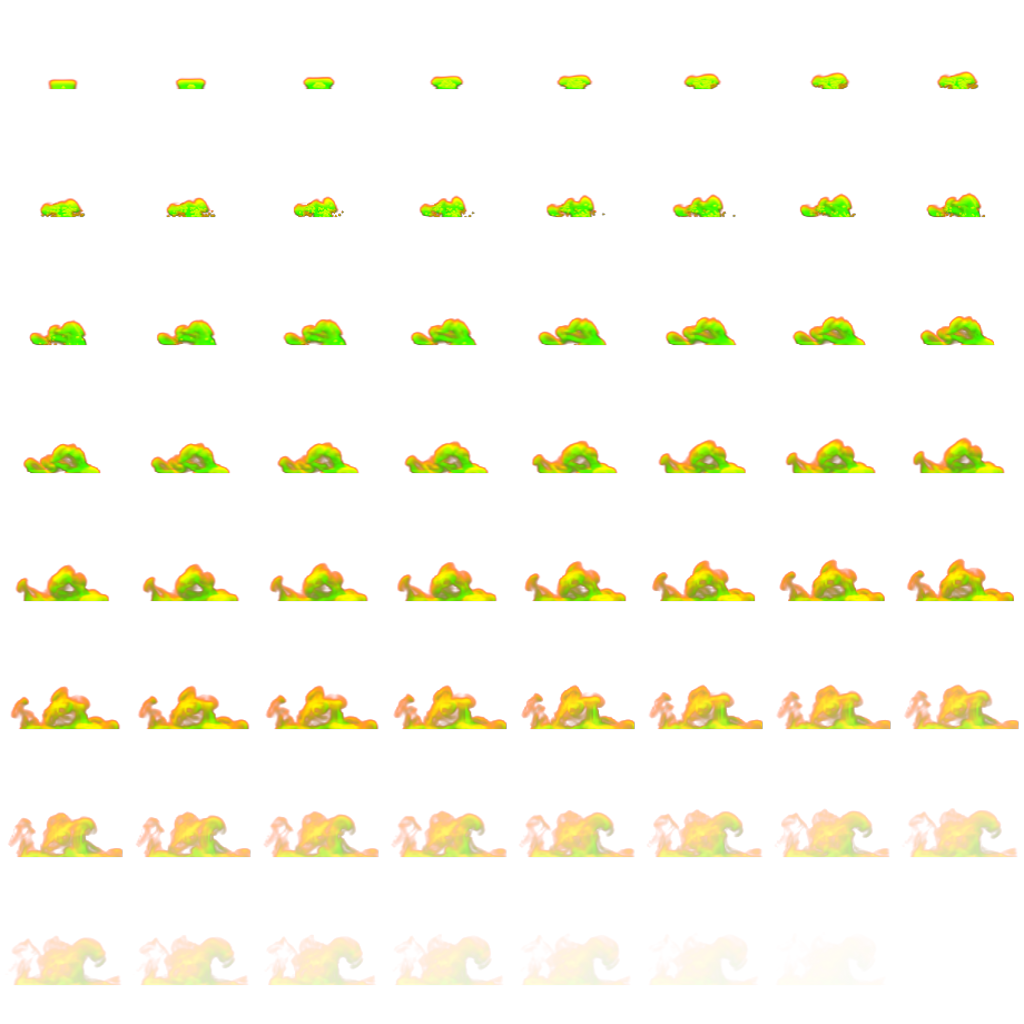
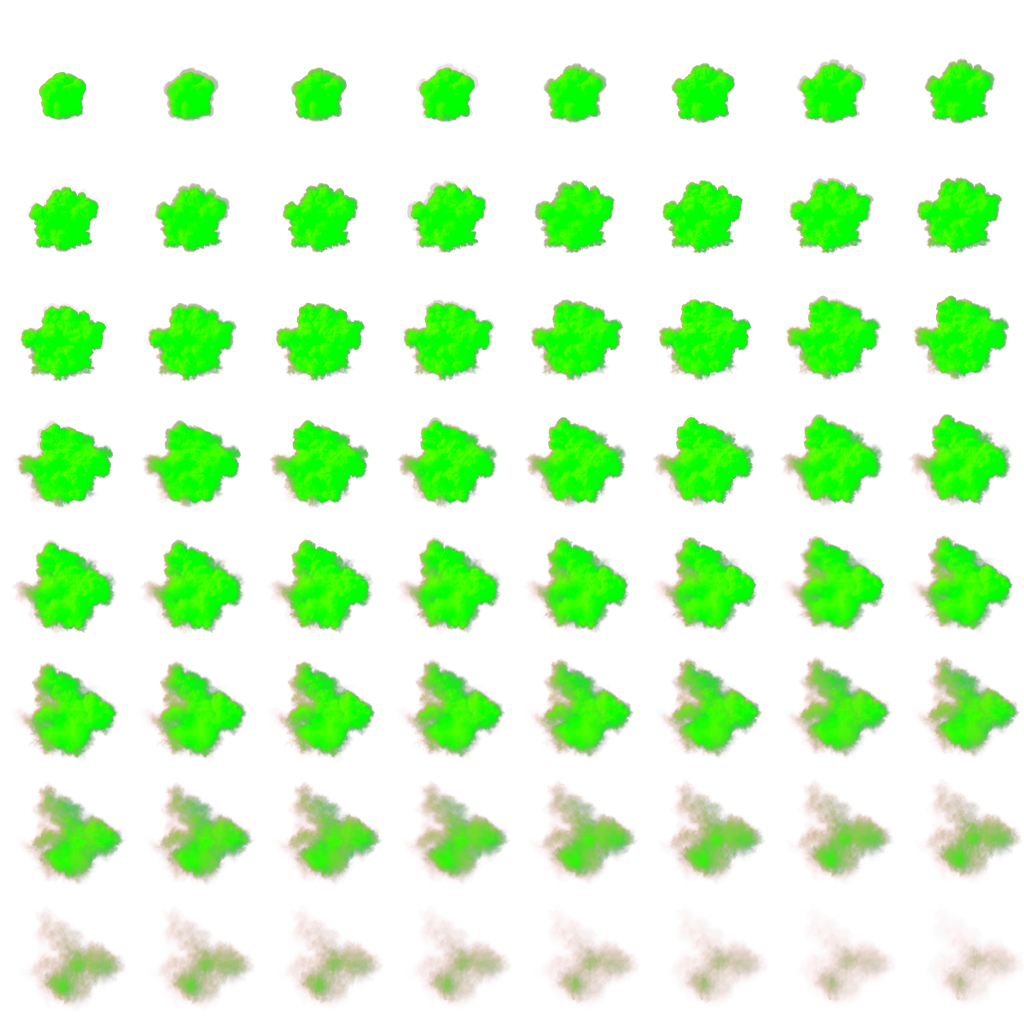
Real fire / smoke / explosion flipbooks (CC0 sims), Niagara loop budget, big burning fields
- fetch_cc0_flipbooks.py: Unity Labs' 2016 CC0 VFX sequences (flames, fireballs, explosions, wispy smoke);
  cc0_flipbooks_to_house.py remaps them to the house format (light / thickness / temperature / alpha, 8x8, 64 frames,
  2048 px for fire + explosion) and replaces the numpy-solver atlases; flipbooks.json records the sources.
- FX: grand fire fields burn with Niagara fire only (no procedural domes), persistent Niagara capped at 28 (Mac) /
  12 (mobile) loops, grand walls first then nearest.

diff --git a/unreal/Tools/vfx/cc0_flipbooks_to_house.py b/unreal/Tools/vfx/cc0_flipbooks_to_house.py
@@ -1,0 +1,94 @@
+#!/usr/bin/env python3
+"""Turns the CC0 Unity Labs sims (fetch_cc0_flipbooks.py) into the house flipbook format the FX materials read
+(flipbooks.json: "R light, G thickness, B temperature, A alpha", 8 x 8 frames) and replaces the numpy-solver atlases:
+
+  fire_loop  <- Flame02         fire_burst <- FireBall01      explosion <- Explosion01
+  smoke_puff <- WispySmoke02    steam_puff <- WispySmoke03    dust_puff <- Explosion01-nofire
+  sand_burst <- Explosion01-nofire (warmer grade in the material)    water_splash / puff_atlas: unchanged
+
+Frames are resampled in time to 64 (linear blend between neighbours). Channels from the straight-alpha colour:
+  A = alpha, G = alpha (thickness), R = luminance / max-lum (lighting), B = black-body temperature estimate.
+  python3 unreal/Tools/vfx/cc0_flipbooks_to_house.py [--tile 256]
+"""
+import argparse
+import json
+import os
+import sys
+
+import numpy as np
+from PIL import Image
+
+HERE = os.path.dirname(os.path.abspath(__file__))
+FB = os.path.normpath(os.path.join(HERE, "..", "..", "SourceArt", "VFX", "Flipbooks"))
+SRC = os.path.join(FB, "CC0")
+MAP = {
+    "fire_loop": ("Flame02", 256),
+    "fire_burst": ("FireBall01", 256),
+    "explosion": ("Explosion01", 256),
+    "smoke_puff": ("WispySmoke02", 128),
+    "steam_puff": ("WispySmoke03", 128),
+    "dust_puff": ("Explosion01-nofire", 128),
+    "sand_burst": ("Explosion01-nofire", 128),
+}
+
+
+def frames_of(path, cols, rows):
+    im = np.asarray(Image.open(path).convert("RGBA"), dtype=np.float32) / 255.0
+    h, w = im.shape[:2]
+    th, tw = h // rows, w // cols
+    return [im[r * th:(r + 1) * th, c * tw:(c + 1) * tw] for r in range(rows) for c in range(cols)]
+
+
+def resample(frames, n):
+    out = []
+    m = len(frames)
+    for i in range(n):
+        t = i * (m - 1) / max(n - 1, 1)
+        a = int(np.floor(t))
+        b = min(a + 1, m - 1)
+        k = t - a
+        out.append(frames[a] * (1 - k) + frames[b] * k)
+    return out
+
+
+def to_house(f, tile):
+    img = Image.fromarray((np.clip(f, 0, 1) * 255).astype(np.uint8), "RGBA").resize((tile, tile), Image.LANCZOS)
+    f = np.asarray(img, dtype=np.float32) / 255.0
+    rgb, a = f[..., :3], f[..., 3]
+    lum = rgb @ np.array([0.2126, 0.7152, 0.0722], dtype=np.float32)
+    # temperature: hot = bright and red-over-blue (flame / fireball cores); grey smoke stays cold
+    warm = np.clip((rgb[..., 0] - rgb[..., 2]) * 1.6, 0, 1)
+    temp = np.clip(warm * np.clip(lum * 1.4, 0, 1) + np.clip((lum - 0.75) * 2.0, 0, 1) * 0.6, 0, 1)
+    return np.stack([lum, a, temp, a], axis=-1)
+
+
+def main():
+    ap = argparse.ArgumentParser()
+    ap.add_argument("--tile", type=int, default=0, help="override tile px for every flipbook")
+    a = ap.parse_args()
+    man = json.load(open(os.path.join(SRC, "cc0_flipbooks.json")))
+    meta = json.load(open(os.path.join(FB, "flipbooks.json")))
+    for key, (name, tile) in MAP.items():
+        s = man["sets"].get(name)
+        if not s:
+            print(f"{key}: {name} missing (run fetch_cc0_flipbooks.py)")
+            continue
+        tile = a.tile or tile
+        frames = resample(frames_of(os.path.join(SRC, s["file"]), s["cols"], s["rows"]), 64)
+        atlas = np.zeros((tile * 8, tile * 8, 4), dtype=np.float32)
+        for i, f in enumerate(frames):
+            r, c = divmod(i, 8)
+            atlas[r * tile:(r + 1) * tile, c * tile:(c + 1) * tile] = to_house(f, tile)
+        dst = os.path.join(FB, f"T_FX_FB_{key}.png")
+        Image.fromarray((np.clip(atlas, 0, 1) * 255 + 0.5).astype(np.uint8), "RGBA").save(dst, optimize=True)
+        e = meta["flipbooks"][key]
+        e.update({"frames": 64, "grid": 8, "tile": tile, "source": f"CC0 Unity Labs VFX sequences: {name}",
+                  "generator": "unreal/Tools/vfx/cc0_flipbooks_to_house.py"})
+        print(f"{key:12s} <- {name:20s} {tile * 8}px")
+    meta["license_notes"] = "fire / smoke / explosion atlases: CC0 1.0 (Unity Labs 2016 VFX image sequences); others: generated"
+    json.dump(meta, open(os.path.join(FB, "flipbooks.json"), "w"), indent=2)
+    return 0
+
+
+if __name__ == "__main__":
+    sys.exit(main())

diff --git a/unreal/Tools/vfx/fetch_cc0_flipbooks.py b/unreal/Tools/vfx/fetch_cc0_flipbooks.py
@@ -1,0 +1,62 @@
+#!/usr/bin/env python3
+"""Downloads Unity Labs' 2016 VFX image sequences / flipbooks (CC0, creativecommons.org/publicdomain/zero/1.0/;
+https://unity.com/blog/engine-platform/free-vfx-image-sequences-flipbooks) - offline fluid sims of flames, fireballs,
+explosions and smoke - and converts the TGA flipbook atlases to PNG for the Unreal import:
+  unreal/SourceArt/VFX/Flipbooks/CC0/<Name>_<cols>x<rows>.png   (git-ignored) + cc0_flipbooks.json (grid, source, license)
+
+  python3 unreal/Tools/vfx/fetch_cc0_flipbooks.py [--only Flame02,Explosion01]
+"""
+import argparse
+import io
+import json
+import os
+import re
+import shutil
+import sys
+import urllib.request
+import zipfile
+
+HERE = os.path.dirname(os.path.abspath(__file__))
+OUT = os.path.normpath(os.path.join(HERE, "..", "..", "SourceArt", "VFX", "Flipbooks", "CC0"))
+BASE = "https://unity3d.com/files/labs/downloads/vfx/assets01"
+SETS = ["Flame02", "Flame03", "FireBall01", "FireBall02", "FireBall03", "Explosion00", "Explosion01", "Explosion02",
+        "Explosion01-nofire", "WispySmoke01", "WispySmoke02", "WispySmoke03", "DiscSmoke01", "Cloud01", "Cloud02"]
+UA = {"User-Agent": "Fourfold-asset-fetch/1.0"}
+
+
+def main():
+    ap = argparse.ArgumentParser()
+    ap.add_argument("--only", default="")
+    a = ap.parse_args()
+    only = {s for s in a.only.split(",") if s}
+    os.makedirs(OUT, exist_ok=True)
+    from PIL import Image
+    man_path = os.path.join(OUT, "cc0_flipbooks.json")
+    man = json.load(open(man_path)) if os.path.exists(man_path) else {
+        "license": "CC0 1.0 (Unity Labs VFX image sequences, 2016)", "source": "https://unity.com/blog/engine-platform/free-vfx-image-sequences-flipbooks",
+        "sets": {}}
+    for name in SETS:
+        if only and name not in only:
+            continue
+        url = f"{BASE}/{name}/{name}-flipbooks.zip"
+        with urllib.request.urlopen(urllib.request.Request(url, headers=UA), timeout=600) as r:
+            data = r.read()
+        z = zipfile.ZipFile(io.BytesIO(data))
+        tgas = [n for n in z.namelist() if n.lower().endswith(".tga")]
+        if not tgas:
+            print(f"{name}: no TGA in the zip ({z.namelist()})")
+            continue
+        src = tgas[0]
+        m = re.search(r"_(\d+)x(\d+)\.tga$", src, re.I)
+        cols, rows = (int(m.group(1)), int(m.group(2))) if m else (8, 8)
+        img = Image.open(io.BytesIO(z.read(src))).convert("RGBA")
+        dst = os.path.join(OUT, f"T_FX_CC0_{name.replace('-', '_')}.png")
+        img.save(dst, optimize=True)
+        man["sets"][name] = {"file": os.path.basename(dst), "cols": cols, "rows": rows, "size": list(img.size), "zip": url}
+        print(f"{name:20s} {cols}x{rows} {img.size} -> {os.path.basename(dst)}")
+    json.dump(man, open(man_path, "w"), indent=1)
+    return 0
+
+
+if __name__ == "__main__":
+    sys.exit(main())

diff --git a/unreal/Source/FourfoldFX/Private/Logic/FxDirector.cpp b/unreal/Source/FourfoldFX/Private/Logic/FxDirector.cpp
@@ -97,6 +97,20 @@ const DrawList& FxDirector::Update(const FxFrameIn& in) {
 	world_.Update(c);
 	fx_.Step(c);
 	SelectLights(out_.lights, MinI(c.q.maxLights, 4), in.cam.pos);
+	// Persistent Niagara budget (each NS_Fire ~0.3-0.5 ms on the Mac): keep the loops nearest the camera.
+	{
+		const size_t cap = in.quality >= 2 ? 28u : 12u;
+		if (out_.loops.size() > cap) {
+			const Vec3 cam = in.cam.pos;
+			// grand-technique walls (keys 0xB1......) first, then nearest
+			std::stable_sort(out_.loops.begin(), out_.loops.end(), [&cam](const LoopReq& x, const LoopReq& y) {
+				const bool gx = (x.key & 0xFF000000u) == 0xB1000000u, gy = (y.key & 0xFF000000u) == 0xB1000000u;
+				if (gx != gy) return gx;
+				return (x.pos - cam).length_squared() < (y.pos - cam).length_squared();
+			});
+			out_.loops.resize(cap);
+		}
+	}
 	stats_.items = static_cast<int>(out_.items.size());
 	stats_.lights = static_cast<int>(out_.lights.size());
 	stats_.fractures = static_cast<int>(out_.fractures.size());
@@ -210,11 +224,10 @@ void FxDirector::UpdateGrand(Ctx& c) {
 	const Color smoke(0.34f, 0.31f, 0.29f);
 	for (const ff::BodyView& b : cur.bodies) {
 		const bool wall = b.form == ff::Form::Wave && b.props["grand"].as_bool(false);
-		const bool field = b.form == ff::Form::Zone && b.tag == "fire_field" && b.zone_radius >= 2.3f;
-		if (!wall && !field) continue;
+		if (!wall) continue;
 		const uint32_t key0 = 0xB1000000u + static_cast<uint32_t>(b.id) * 8u;
-		if (wall) {
-			// three roaring columns across the advancing wall + a smoke pall above it
+		{
+			// roaring columns across the advancing wall + a smoke pall above it
 			Vec3 fwd = b.wave_dir;
 			fwd.y = 0.0f;
 			fwd = fwd.length_squared() > 1e-6f ? Norm(fwd) : Vec3(0.0f, 0.0f, 1.0f);
@@ -234,13 +247,8 @@ void FxDirector::UpdateGrand(Ctx& c) {
 				s.intensity = 1.0f;
 				s.color = smoke;
 			}
-		} else {
-			LoopReq& l = c.out.Loop(key0, LCue::Fire, b.pos);
-			l.scale = 1.0f * b.zone_radius;
-			l.intensity = 1.3f;
-			l.color = c.cfg.flame[1];
-			l.color2 = smoke;
 		}
+		// big fields: the field view itself places its Niagara sites (FxViews), nothing extra here
 	}
 }
 

diff --git a/unreal/Source/FourfoldFX/Private/Logic/FxViews.cpp b/unreal/Source/FourfoldFX/Private/Logic/FxViews.cpp
@@ -981,16 +981,18 @@ public:
 			const int n = Sites(sites);
 			for (int k = 0; k < n; ++k) {
 				LoopReq& l = c.out.Loop(loopKeys_[static_cast<size_t>(k)], cue, sites[static_cast<size_t>(k)]);
-				l.scale = (sel.style == "field" ? Clamp(radius_ * 0.45f, 0.6f, 1.2f) : 0.75f) * (0.75f + 0.25f * intensity_);
+				const bool big = radius_ >= 2.3f;   // grand-technique fields: real flames, waist to head high
+				l.scale = (big ? radius_ * 0.85f : (sel.style == "field" ? Clamp(radius_ * 0.45f, 0.6f, 1.2f) : 0.75f)) *
+				          (0.75f + 0.25f * intensity_);
 				l.intensity = intensity_;
 				l.color = cols[1];
 				l.color2 = smoke;
 			}
 		}
 		// big (grand) fields: the Niagara fire carries the look, the procedural tongues only glow underneath
-		const float tongues = loops && c.cfg.Loop(cue).replace ? (radius_ >= 2.3f ? 0.22f : 0.55f) : 1.0f;
+		const float tongues = loops && c.cfg.Loop(cue).replace ? 0.55f : 1.0f;
 		flames_.SetIntensity(intensity_ * tongues);
-		flames_.Draw(c, x_, fade, true);
+		if (!(loops && radius_ >= 2.3f)) flames_.Draw(c, x_, fade, true);   // big fields: the Niagara fire alone
 	}
 	float FadeTime() const override { return 0.35f; }
 
